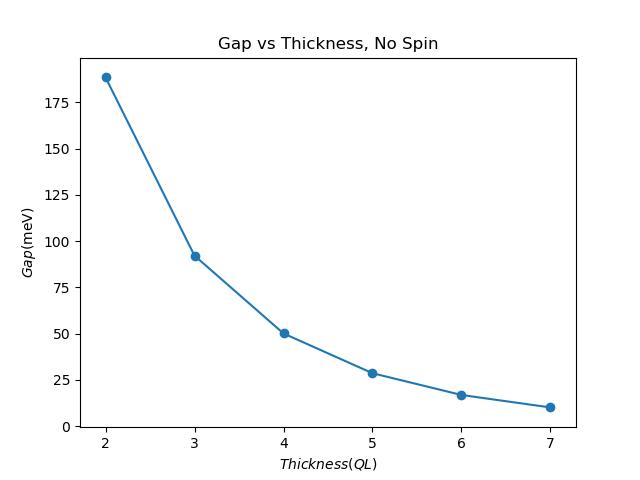
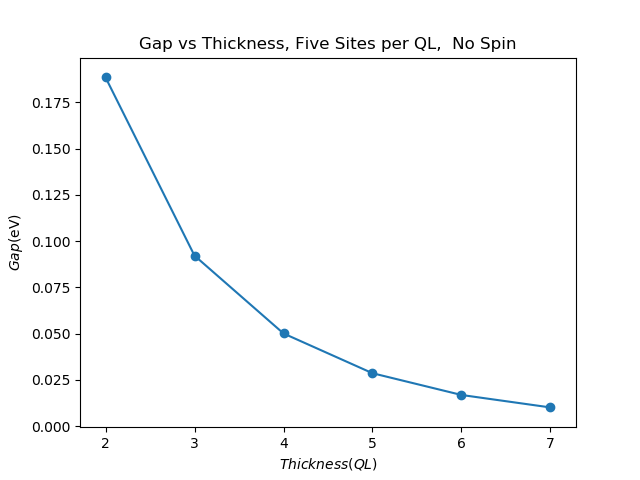
TestingFiveSite

diff --git a/TI Hamiltonian/PhaseTransition.py b/TI Hamiltonian/PhaseTransition.py
@@ -18,32 +18,31 @@ def read_point(filename="Poster_PT_D3.189_HZL_SpinZ18-09-02-02-08-42.txt"):
     return [l[0] for l in PD.data]
 
 
-def draw(PT, filename="Poster_PT"):
-    height = 0.04
+def draw(PT, height=0.04, filename="Poster_PT"):
 
     PT = np.array([x if (x > 0) and (x < height) else height for x in PT])
-    X = np.linspace(3, 20, 18, endpoint=True, dtype=int)
-    X1 = np.linspace(3, 19, 9, endpoint=True, dtype=int)
-    X2 = np.linspace(4, 20, 9, endpoint=True, dtype=int)
-    Y1 = [PT[i-3] for i in X1]
-    Y2 = [PT[i-3] for i in X2]
+    X = np.linspace(2, 7, 6, endpoint=True, dtype=int)
+    X1 = np.linspace(3, 7, 3, endpoint=True, dtype=int)
+    X2 = np.linspace(2, 6, 3, endpoint=True, dtype=int)
+    Y1 = [PT[i-2] for i in X1]
+    Y2 = [PT[i-2] for i in X2]
     Y = np.array([height-x for x in PT])
     # print(X, Y)
     fig, ax = plt.subplots()
     plt.bar(X1, Y1, width=1, facecolor="green")
     plt.bar(X2, Y2, width=1, facecolor="red")
     plt.bar(X, Y, width=1, bottom=PT, facecolor="blue")
-    plt.xlim(2.5, 20.5)
+    plt.xlim(1.5, 7.5)
     plt.ylim(0, height)
-    plt.title("PhaseDiag of N & J, Delta=$3.189\AA$")
-    plt.xlabel("# of Layers")
+    plt.title("PhaseDiag of Thickness & J, Delta=$1.9134\AA$")
+    plt.xlabel("Thickness (QL)")
     plt.ylabel("$J(\\rm eV)$")
     cmap = mpl.colors.ListedColormap(["r", "g", "b", "c"])
     norm = mpl.colors.BoundaryNorm(list(range(5)), cmap.N)
     ax2 = fig.add_axes([0.92, 0.1, 0.03, 0.8])
     mpl.colorbar.ColorbarBase(ax2, cmap=cmap, norm=norm)
     # plt.show()
-    plt.savefig("PT_D3.189.png")
+    plt.savefig("PT_D1.9134.png")
 
 
 def PT_SpinZ(_N, _J_Max, _i, _j, Phase, _J_Min=0,  _J_tol=1e-4, Delta=3.189, CONST=CONST_HZL, settings=settings):
@@ -87,10 +86,13 @@ def PT_SpinZ(_N, _J_Max, _i, _j, Phase, _J_Min=0,  _J_tol=1e-4, Delta=3.189, CON
 
 
 if __name__ == "__main__":
-    now = nt()
-    File_1 = "PT_D1.9134_HZL_SpinZ"+now
-    func1 = partial(PT_SpinZ, _J_Min=0, _J_tol=1e-5,
-                    Delta=1.9134, settings=settings)
+    # now = nt()
+    # File_1 = "PT_D1.9134_HZL_SpinZ"+now
+    # func1 = partial(PT_SpinZ, _J_Min=0, _J_tol=1e-5,
+    #                 Delta=1.9134, settings=settings)
 
-    PD_1 = PhaseDiag().run(func1, 10, 35, 6, 0.1, 0.1, 1, "N", "J")
-    PD_1.write(filename=File_1)
+    # PD_1 = PhaseDiag().run(func1, 10, 35, 6, 0.1, 0.1, 1, "N", "J")
+    # PD_1.write(filename=File_1)
+    data = read_point("PT_D1.9134_HZL_SpinZ18-09-05-08-46-02.txt")
+
+    draw(data, height=0.05, filename="PT_D1.9134")

diff --git a/TI Hamiltonian/testHZL.py b/TI Hamiltonian/testHZL.py
@@ -47,13 +47,6 @@ def read2(filename="Poster_D3.189_SpinZ.txt"):
 def read3(filename="Poster_PT_D3.189_HZL_SpinZ18-09-02-02-08-42.txt"):
     PD = PhaseDiag()
     PD.read(filename)
-    X_L, X_H, X_N, X_Name = PD.info["X_L"], PD.info["X_H"], PD.info["X_N"], PD.info["X_Name"]
-    Y_L, Y_H, Y_N, Y_Name = PD.info["Y_L"], PD.info["Y_H"], PD.info["Y_N"], PD.info["Y_Name"]
-    # Y_L, Y_H, Y_N = 0, 0.02, 11
-    X = np.linspace(X_L, X_H, num=X_N, endpoint=True)
-    Y = np.linspace(Y_L, Y_H, num=Y_N, endpoint=True)
-    # for i, j in product(list(range(X_N)), list(range(Y_N))):
-    #     PD.data[i][j] = min(PD.data[i][j], 2)
     return [l[0] for l in PD.data]
 
 
@@ -104,20 +97,25 @@ def CalcGap():
     x = list(range(int(N_min/Step), int(N_max/Step+1)))
     for i in range(L):
         # By Default it is Spin-Z
-        N=X[i]
-        h=Hamiltonian(N=N, J=J, Delta=1.9134, **TEST_HZL)
-        eig=np.array([x.real for x in (linalg.eig(h(0, 0))[0])])
+        N = X[i]
+        h = Hamiltonian(N=N, J=J, Delta=1.9134, **TEST_HZL)
+        eig = np.array([x.real for x in (linalg.eig(h(0, 0))[0])])
         eig.sort()
-        Gap[i]=eig[2*N]-eig[2*N-1]
-        print(Gap[i])
+        Gap[i] = eig[2*N]-eig[2*N-1]
+        # print(Gap[i])
 
     plt.subplot()
-    plt.plot(x, Gap*1000)
-    plt.scatter(x, Gap*1000)
-    plt.xlabel(r"$Thickness(QL)$")
-    plt.ylabel(r"$Gap(\rm meV)$")
-    plt.title("Gap vs Thickness, No Spin")
-    plt.savefig("Gap_vs_Thickness_10_35_D1.9134.png")
+    plt.plot(x, Gap, label=r"$\Delta_H$")
+    plt.scatter(x, Gap)
+
+    J = np.array(read3("PT_D1.9134_HZL_SpinZ18-09-05-08-46-02.txt"))*2
+    plt.plot(x, J, color="red", label=r"$2\times J_c$")
+    plt.scatter(x, J, color="red", marker="^")
+    plt.legend(loc='upper right')
+    plt.xlabel(r"$Thickness (\rm QL)$")
+    plt.ylabel(r"$Gap(\rm eV)$")
+    plt.title(r"Critical $J$ & Hybridization Gap vs Thickness")
+    plt.savefig("Spin_Hybrid_vsThickness_10_35_D1.9134.png")
     return
 
 
